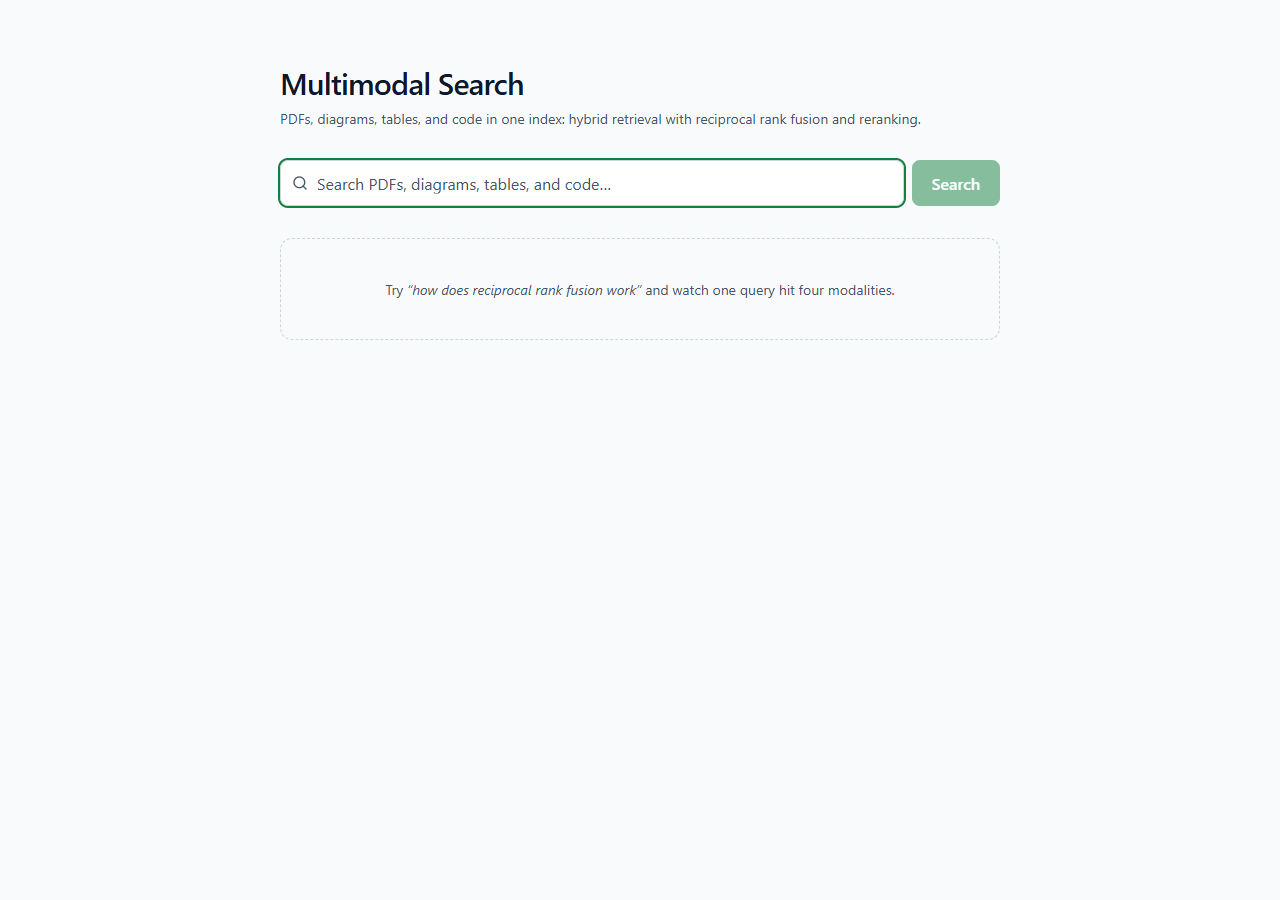
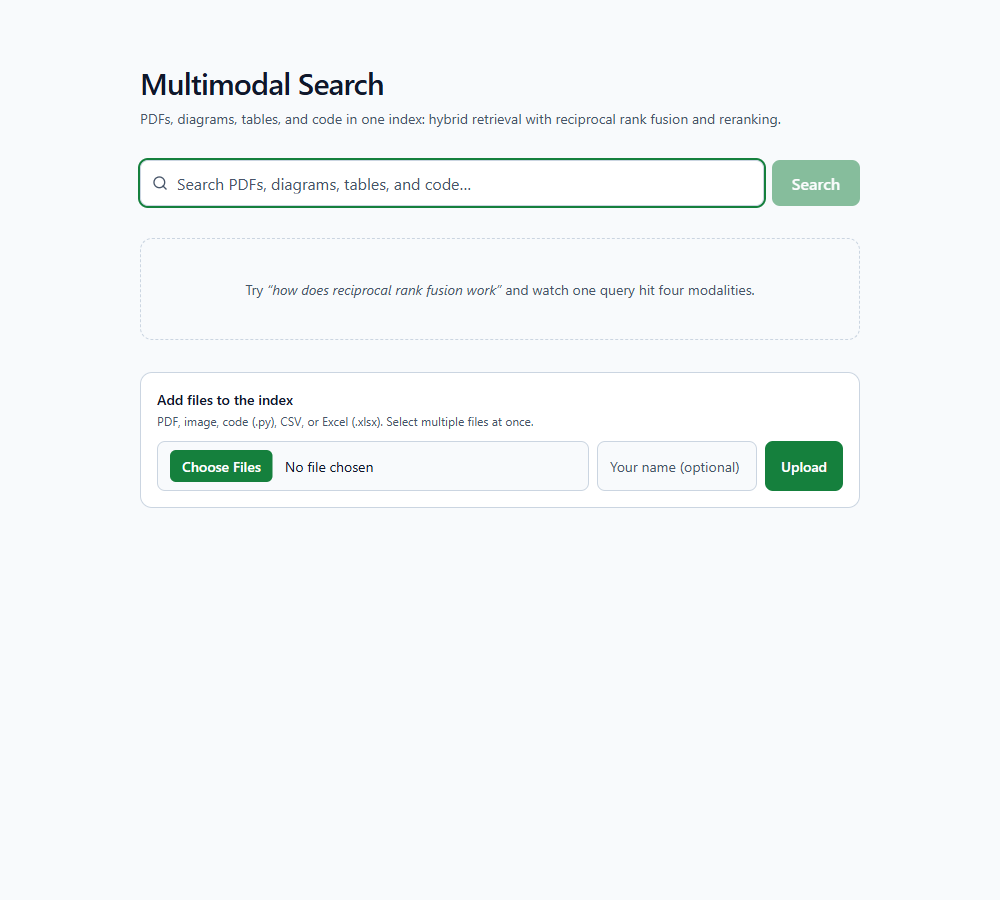
docs: update README for the upload feature, current UI, and eval numbers
Documents POST /upload (usage + a curl example) and adds it to the
feature list; refreshes the stale idle-search screenshot to show the
current UI including the upload panel; updates the eval results section
to the current baseline (24 positive + 5 negative labels, hit-rate@5
0.917, false-positive-rate 0.200 on rrf+rerank) and the two structural
bugs found and fixed this session, replacing the now-superseded
Cohere/OpenAI migration comparison; corrects a Known Limitations claim
that's no longer true (text-layer PDF pages now have an OpenAI vector);
updates the stale 296-test count to 433.

diff --git a/README.md b/README.md
@@ -1,7 +1,7 @@
 # Multimodal Search for Engineers
 
 ![Python](https://img.shields.io/badge/python-3.11%2B-blue)
-![Tests](https://img.shields.io/badge/tests-296%20passing-brightgreen)
+![Tests](https://img.shields.io/badge/tests-433%20passing-brightgreen)
 
 A search system that unifies PDFs, diagrams, tables, and code into **one
 searchable index**: two embedding spaces (Cohere Embed v4 for page/diagram
@@ -10,12 +10,14 @@ LanceDB table, hybrid retrieval (two vector retrievers + full-text, fused via
 RRF) with Cohere Rerank v3 on top. Built to answer a question a
 single-modality search tool can't: "which of my papers, diagrams,
 spreadsheets, and source files actually talks about this," in one query.
+The UI also supports uploading new files (PDF, image, code, CSV, Excel)
+directly into the live index -- see [Uploading files](#uploading-files).
 
 ## Screenshots
 
-The idle search page:
+The idle search page, with the upload panel below it:
 
-![Idle search page](docs/screenshots/01-idle-search.png)
+![Idle search page with the upload panel](docs/screenshots/01-idle-search.png)
 
 A PDF result for "what is low-rank adaptation of large language models":
 
@@ -112,6 +114,30 @@ To iterate on the UI itself, run Vite's dev server alongside uvicorn. It proxies
 cd frontend && npm run dev      # http://127.0.0.1:5173
 ```
 
+## Uploading files
+
+The UI's "Add files to the index" panel (below the search box) lets you add
+new files to the live index without re-running the ingest CLI: PDF, image
+(`.png`/`.jpg`/`.jpeg`/`.gif`/`.bmp`), code (`.py`), CSV, or Excel (`.xlsx`),
+one or several at a time. Behind it, `POST /upload` (same `X-API-Key` gate as
+`/search`, its own rate limit -- 20 uploads/min, separate from search's
+limit) validates each file's actual content against its extension (magic
+bytes for binary types, decodability for `.py`/`.csv`) rather than trusting
+the filename, caps uploads at 10 MB, and routes it through the same
+per-modality ingestion path as the CLI (PDF page rasterization + text-layer
+extraction, tree-sitter code chunking, CSV/xlsx-to-markdown, VLM captioning
+for images) before upserting it into the same LanceDB table `/search`
+queries:
+
+```
+curl -H "X-API-Key: your-own-shared-secret-here" \
+     -F "file=@paper.pdf" -F "uploader=you" \
+     http://127.0.0.1:8000/upload
+```
+
+Known gap: uploading the same file twice creates duplicate rows -- there's
+no content-hash or id-collision check yet.
+
 ## Deployment
 
 Deployed to Render as a read-only query service over the already-ingested
@@ -125,81 +151,75 @@ the security posture changes that come with being genuinely public are in
 
 ## Eval results
 
-Hit-rate@5 against 25 hand-written labels
-([`eval/labels.yaml`](src/mmsearch/eval/labels.yaml)) on the real ingested
-corpus, measured after the Cohere/OpenAI embedding split
-([`EMBEDDING_MIGRATION_PLAN.md`](EMBEDDING_MIGRATION_PLAN.md)), across all
-three retrieval modes:
+Hit-rate@5 and false-positive-rate against 24 positive + 5 negative labels
+([`eval/labels.yaml`](src/mmsearch/eval/labels.yaml)) on the real committed
+corpus, measured with the eval harness's own CLI (`mmsearch-eval`,
+[`src/mmsearch/eval/cli.py`](src/mmsearch/eval/cli.py) -- `--out` for JSON
+reports, `--compare` to diff two runs, `--ablations` for all three modes):
 
 | | vector-only | rrf-only | rrf+rerank |
 |---|---|---|---|
-| **Aggregate** | 0.880 | 0.920 | 0.920 |
-| *per-modality* | | | |
-| - code | 0.900 | 0.800 | 1.000 |
-| - diagram | 1.000 | 1.000 | 0.750 |
-| - pdf_page | 0.714 | 0.857 | 0.714 |
-| - table | 0.800 | 1.000 | 1.000 |
-| *per-text_source* | | | |
-| - code_source | 0.900 | 0.800 | 1.000 |
-| - pdf_text_layer | 0.714 | 0.857 | 0.714 |
-| - table_markdown | 0.800 | 1.000 | 1.000 |
-| - vlm_caption | 1.000 | 1.000 | 0.750 |
+| **hit-rate@5** | 0.958 | 0.958 | **0.917** |
+| **false-positive-rate** | 1.000 | 1.000 | **0.200** |
 
-(`rrf-only` and `rrf+rerank` measured at `RRF_K=20`, re-validated against
-this three-way fusion after the migration -- see `config.py`'s comment for
-the controlled k=60-vs-k=20 comparison. `rrf+rerank` was re-measured with
-the Cohere rerank calls throttled to stay under the API key's rate limit,
-and the run log confirms zero reranker fallbacks -- these are true reranked
-numbers, not a silent RRF-order substitution.)
+Per-modality, `rrf+rerank` (the only mode `/search` actually serves): code
+1.000, diagram 0.800, pdf_page 0.600, table 1.000. `vector-only`/`rrf-only`
+have no reranker to catch a confidently-wrong candidate, hence the much
+higher false-positive-rate -- see [Known limitations](#known-limitations).
 
-**Headline finding: production mode (`rrf+rerank`) didn't move at all.**
-Aggregate hit-rate@5 is 0.920 both before and after the migration, and every
-per-modality cell matches exactly: code 1.000/1.000, diagram 0.750/0.750,
-pdf_page 0.714/0.714, table 1.000/1.000. The embedding-provider split
-achieved its cost goal (table/code/caption-text embedding moved off Cohere
-onto the much cheaper OpenAI `text-embedding-3-small`) with **no measured
-quality cost** on this eval set in the mode that actually serves `/search`.
-The likely reason: Cohere Rerank v3 re-scores the fused shortlist directly
-against the query text, which is provider-agnostic -- it doesn't care
-whether a candidate's *retrieval* signal came from Cohere-image-space,
-OpenAI-text-space, or FTS, only whether the candidate's text is relevant.
-That gives the reranker room to correct for whatever the upstream fusion
-gets slightly wrong, which is also why `vector-only` and `rrf-only` (below)
-did shift while `rrf+rerank` absorbed the difference.
+Two structural bugs were found and fixed by diffing these numbers
+before/after each change (`mmsearch-eval --compare`; full trace in
+`HANDOFF.md`):
 
-`vector-only` moved (0.960 -> 0.880) and is **not directly comparable** to
-the pre-migration number -- and not just because the embedding provider
-changed. The *mechanics* changed: pre-migration, `vector-only` was one
-ranked list from a single unified Cohere space. Post-migration, `vector-only`
-is now an internal two-way Reciprocal Rank Fusion between two *separate*
-vector spaces (Cohere image-space, OpenAI text-space) that are never
-compared to each other directly -- a query vector from one provider only
-ever competes within its own space, and the two ranked lists are RRF-fused
-the same way `rrf-only` fuses vector + FTS. So the pre/post `vector-only`
-numbers reflect two structurally different retrieval strategies, not the
-same strategy with a swapped-out embedding model. `rrf+rerank` didn't
-inherit this instability because reranking sits downstream of all of it.
+- **42 of 76 rows -- every text-layer PDF page -- had no OpenAI text
+  vector.** `ingest_pdf` embedded every page's raster into the Cohere
+  vector but only ever embedded text into the OpenAI vector for
+  scanned/captioned pages. Backfilled; zero change to `rrf+rerank` (the
+  reranker already rescued these rows), but it surfaced the next bug.
+- **`reciprocal_rank_fusion` summed scores across every list an id
+  appeared in, with no normalization for how many lists it could
+  structurally appear in.** A `pdf_page`/`diagram` row can appear in both
+  vector lists; `code`/`table` only ever has one. The plain sum rewarded
+  that extra list presence regardless of rank -- traced concretely, a code
+  row ranking #1 in its only eligible list dropped to rank 17 after
+  fusion. Fixed via an `eligible_universes` parameter on
+  `reciprocal_rank_fusion` (`retrieve/fusion.py`) that normalizes by
+  structural eligibility, not raw list count. `vector-only`/`rrf-only`
+  hit-rate@5 recovered 0.333/0.542 -> 0.958/0.958; `rrf+rerank` was
+  unaffected (0 flipped queries).
 
 ## Known limitations
 
-All three findings below were re-checked against the real post-migration
-index (raw per-retriever ranks, not just final top-5) rather than assumed
-to still hold from the pre-migration measurement.
+The findings below were re-checked against the real current index (raw
+per-retriever ranks, not just final top-5) rather than assumed to still
+hold from an earlier measurement.
 
-**Reranking can demote a correct top-ranked PDF page.** *(Unchanged --
-reproduces exactly.)* For the query `"how to fine-tune an LLM for free
-using a Kaggle GPU"`, both `vector-only` and `rrf-only` correctly rank the
-paper's actual intro page (`p1`) at rank 1, but `rrf+rerank` drops it out
-of the top 5 entirely, in favor of denser mid-document pages that share
-more surface vocabulary with the query. This is the one case on this eval
-set where reranking looks like a genuine regression, not a small-sample
-fluke: the correct page and the promoted pages are all topically relevant,
-but the reranker's judgment of "most relevant" doesn't match the eval
-label's ground truth for a tutorial-style document where the intro page is
-mostly setup rather than dense keyword content. This page's `vector_openai`
-is unset (text-layer PDF pages never get an OpenAI vector, only scanned
-pages and diagrams do), so it's driven by the same Cohere signal as before
-the migration -- consistent with it being unaffected.
+**Reranking can demote a correct top-ranked PDF page.** *(Still
+reproduces, and no longer explainable by a missing retrieval signal.)* For
+the query `"how to fine-tune an LLM for free using a Kaggle GPU"`, both
+`vector-only` and `rrf-only` correctly rank the paper's actual intro page
+(`p1`) at rank 1, but `rrf+rerank` drops it out of the top 5 entirely, in
+favor of denser mid-document pages that share more surface vocabulary with
+the query. This is the one case on this eval set where reranking looks
+like a genuine regression, not a small-sample fluke: the correct page and
+the promoted pages are all topically relevant, but the reranker's judgment
+of "most relevant" doesn't match the eval label's ground truth for a
+tutorial-style document where the intro page is mostly setup rather than
+dense keyword content. This page's `vector_openai` used to be unset
+(text-layer PDF pages had no OpenAI vector before it was backfilled) --
+every page now has one, so a missing retrieval signal is no longer the
+explanation. The reranker demotes the correct page anyway: this is
+squarely a reranker-judgment issue, not a retrieval one.
+
+**One residual false positive: a confidently-wrong reranker, not something
+a score threshold can catch.** *(Open, not addressed.)* Of the 5 negative
+labels (queries with no correct answer anywhere in the corpus), 4 correctly
+return nothing above `MIN_SCORE_THRESHOLD`. The fifth -- "low-rank
+adaptation of large language models," a topic genuinely absent from the
+committed index -- surfaces the ColPali paper at a relevance score of 0.84.
+`MIN_SCORE_THRESHOLD` only filters genuine low-confidence noise; it can't
+fix a reranker that's confidently wrong about an irrelevant candidate. A
+real fix needs a different mechanism than a score cutoff.
 
 **Sparse-text modalities losing fusion ties to dense-text competitors --
 not currently observed.** *(Original failure mode doesn't reproduce.)* The
@@ -224,7 +244,7 @@ just isn't manifesting on the current corpus and label set.
 different cause now.** The formal eval label
 `"diagram showing the transformer encoder decoder architecture"` correctly
 surfaces the right diagram at rank 1 across every retriever. The original
-claim used a shorter, ad hoc probe (not one of the 25 scored labels):
+claim used a shorter, ad hoc probe (not one of the scored labels):
 `"transformers architecture"` previously failed to surface the diagram at
 all. Rechecked: it's no longer a pure vector-retrieval failure -- the
 OpenAI caption vector actually ranks the diagram **1st** for this phrasing,
@@ -240,7 +260,7 @@ an embedding change).
 
 ## Tests
 
-296 tests, all green, all run against fakes/fixtures. No real API calls,
+433 tests, all green, all run against fakes/fixtures. No real API calls,
 no torch/GPU load except when actually exercising the local captioner:
 
 ```
